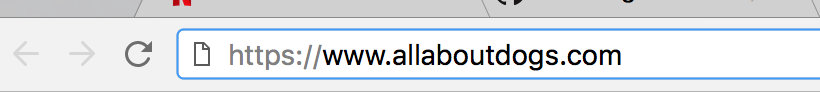
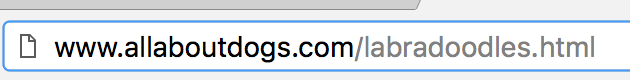
small fixes

diff --git a/tech101/index.html b/tech101/index.html
@@ -54,7 +54,7 @@
 
 				<section>
 					<h3>Jen's story</h3>
-					<p>Jen would like to get some information about dogs.</p>
+					<p>Jen would like to get some information about labradoodles.</p>
 				</section>
 				<section>
 					<img width="700px" alt="client" src="images/clientbrowser.jpg"/>
@@ -62,11 +62,11 @@
 				</section>
 				<section>
 					<img width="700px" alt="browser bar" src="images/allaboutdogs2.png"/>
-					<p>Types https://www.allaboutdogs.com in her browser</p>
+					<p>Types https://www.allaboutdogs.com/labradoodles.html in her browser</p>
 				</section>
 				<section>
 					<img width="700px" alt="webpage screenshot" src="images/allaboutdogsdata.png"/>
-					<p>And is now able to find out all about dogs!</p>
+					<p>And is now able to find out all about labradoodles!</p>
 				</section>
 
 				<section>
@@ -110,8 +110,8 @@
 						<p class="fragment" style="color:#f05b62; margin:25px">www.allaboutdogs.com</p>
 						<li class="fragment"><strong>The action</strong>: What it wants the server to do</li>
 						<p class="fragment" style="color:#f05b62; margin:25px">GET</p>
-						<li class="fragment"><strong>The path/file</strong>: What it wants from the server</li>
-						<p class="fragment" style="color:#f05b62; margin:25px">labradoodles.html</p>
+						<li class="fragment"><strong>The path</strong>: What it wants from the server</li>
+						<p class="fragment" style="color:#f05b62; margin:25px">labradoodles</p>
 					</ul>
 				</section>
 
